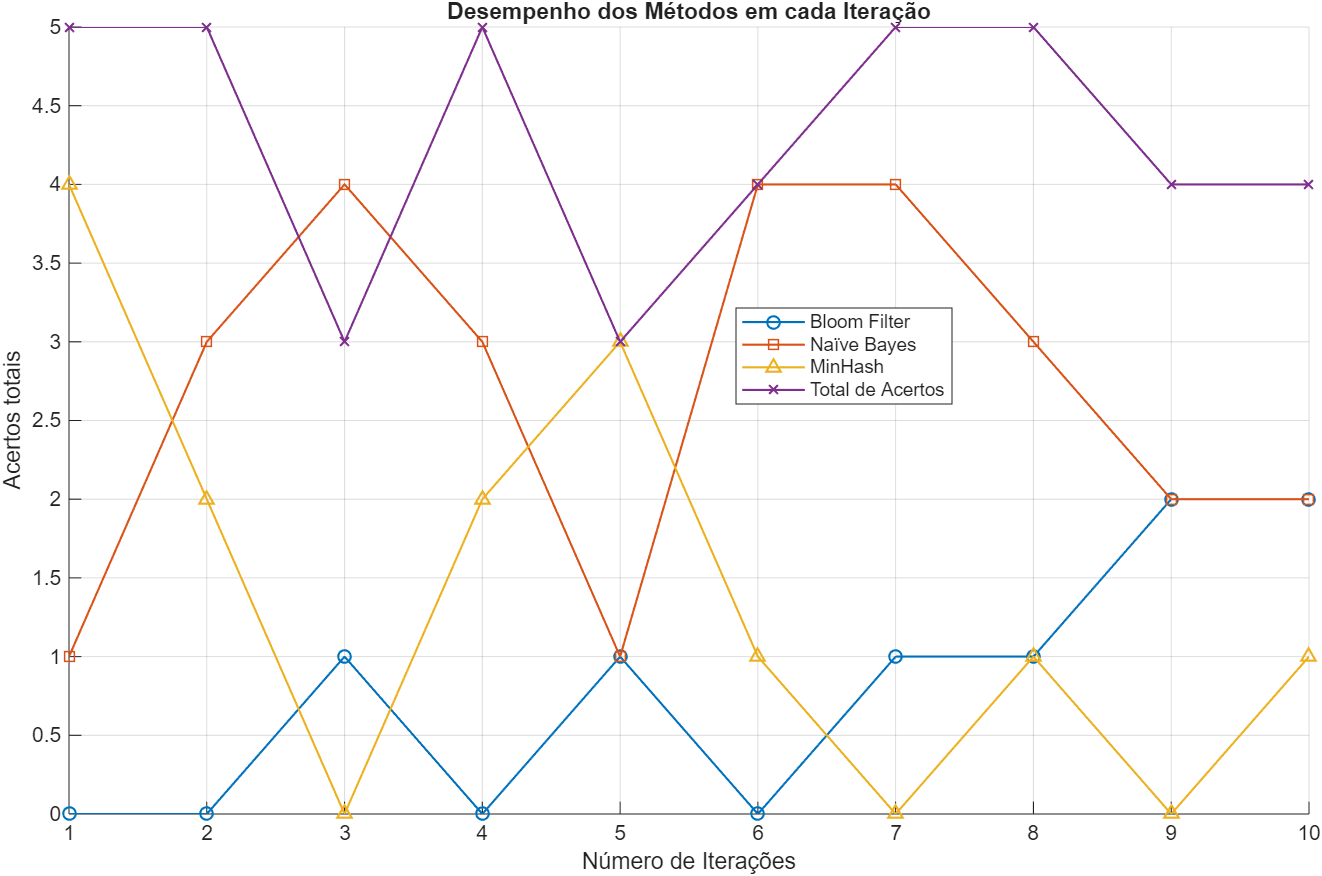
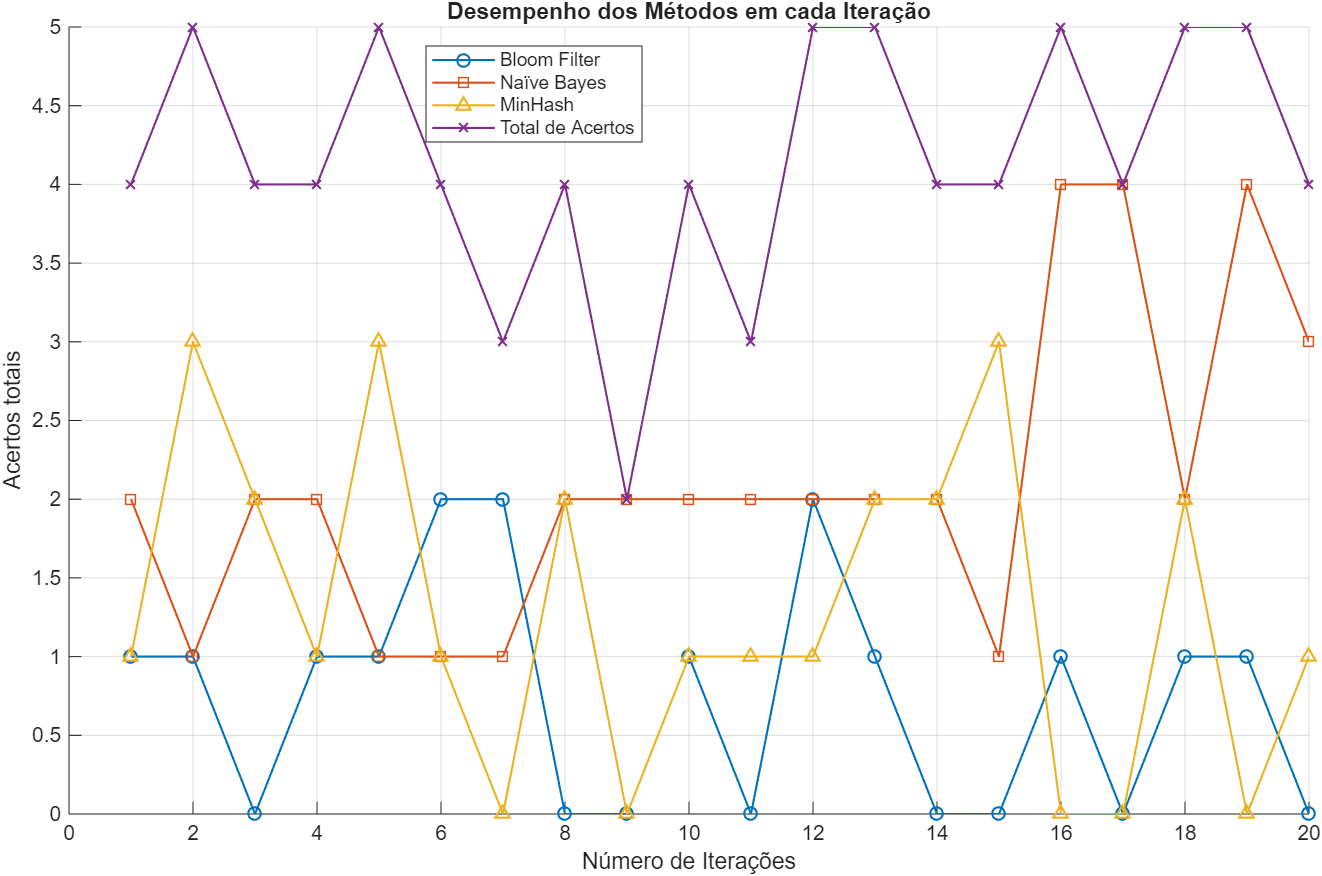
teste correto

diff --git a/teste_conjunto.m b/teste_conjunto.m
@@ -5,7 +5,7 @@ clc
 % Análise do comportamento do programa completo.
 % Avaliamos o número de acertos totais e de acertos de cada componente.
 
-num_iter = 10;
+num_iter = 20;
 acertos_bloom_filter = zeros(1, num_iter);
 acertos_naive =  zeros(1, num_iter);
 acertos_minhash = zeros(1, num_iter);
@@ -15,7 +15,7 @@ n_acertos_totais = zeros(1, num_iter);
 n_test_elements = 5;
 
 for teste = 1:num_iter
-    fprintf('==== Iteração %d de %d ====\n\n', teste, num_iter);
+    fprintf('\n==== Iteração %d de %d ====\n\n', teste, num_iter);
     rng("shuffle")
 
     % NAÏVE BAYES E BLOOM FILTERS
@@ -133,22 +133,27 @@ for teste = 1:num_iter
         pairs = simPairs(train_data_minhash, recipe_data_minhash, J, limiar);
         fprintf("Pares similares: A receita mais similar tem distância %f:\n", pairs{1, 3})
         printElement(train_data_minhash(pairs{1, 1}, :))
-
+        
+        aux = false;
 
         % Resultado
         fprintf("\nRESULTADO:\n")
         if pairs{1, 3} <= limiar_resultado
             cat_resultado = train_data_minhash{pairs{1, 1}, 2};
-            acertos_minhash(teste) = acertos_minhash(teste) + 1;
+            aux = true;
         else
             cat_resultado = cat;
-            acertos_naive(teste) = acertos_naive(teste) + 1;
         end
         fprintf("A receita classifica-se como %s\n", cat_resultado)
 
         if strcmp(string(cat_resultado), recipe_data_minhash{1, 2})
             n_acertos_totais(teste) = n_acertos_totais(teste) + 1;
             fprintf("Acertou!\n\n")
+            if aux
+                acertos_minhash(teste) = acertos_minhash(teste) + 1;
+            else
+              acertos_naive(teste) = acertos_naive(teste) + 1;  
+            end
         else
             fprintf("Falhou...\n\n")
         end
